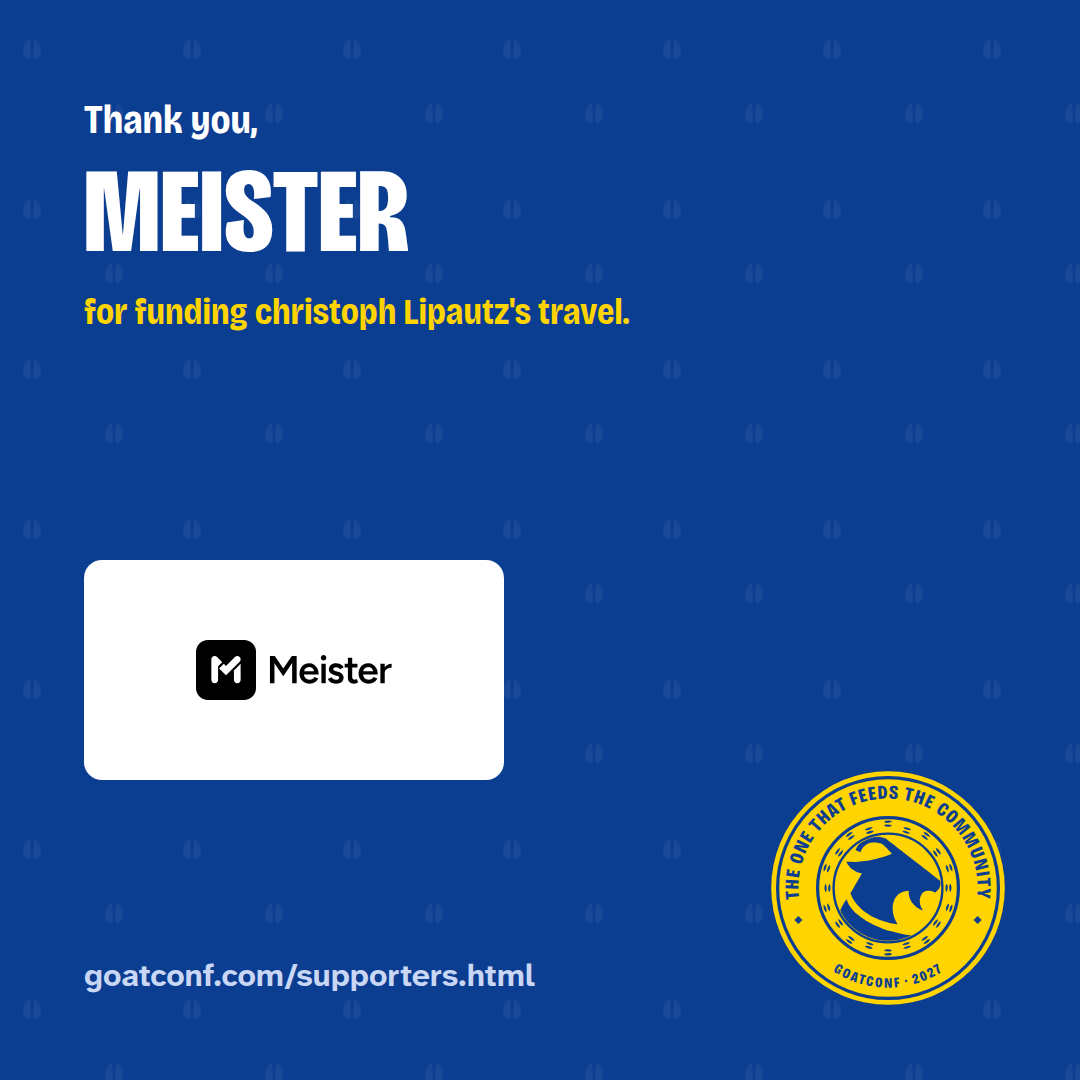
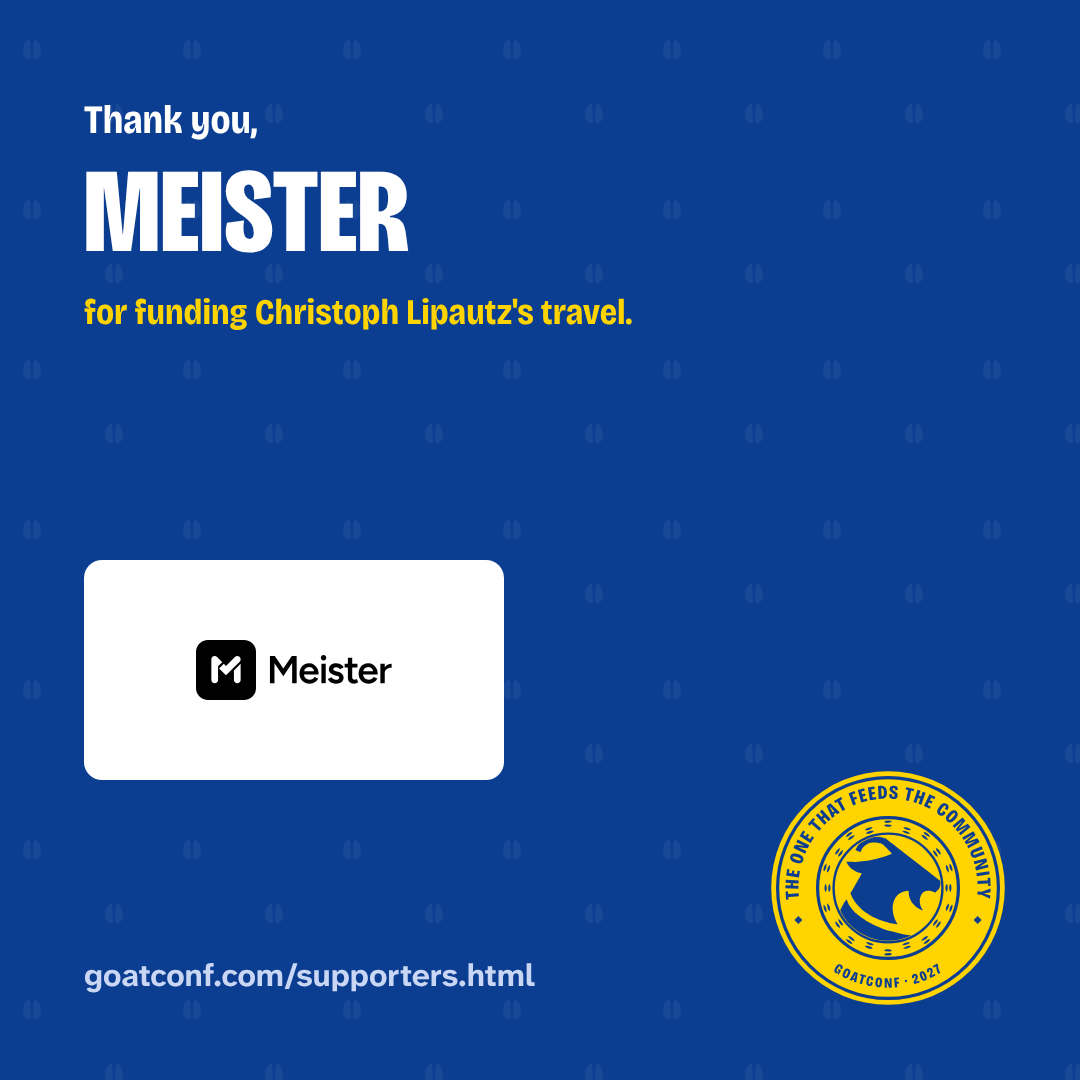
records: hosts who fund and organise an accepted event are supporters
On the organiser's decision, a host (a person, group or company) that
funds and organises an event the organiser accepted is listed as a
supporter, the same as online supporters, if it agrees. No money goes
through the organiser and being listed buys nothing. The supporters
decision gains the amendment; the charter, the supporters page, the
propose an event page, both READMEs and llms.txt say so; the
foundation's listing now falls under the rule.

Thank-you cards lowercase only a leading article, never a name, so
Meister's card reads "for funding Christoph Lipautz's travel" again.

Source: files/sources/conversations/2026-10-18--org--event-hosts-as-supporters.md

diff --git a/files/site/add.html b/files/site/add.html
@@ -70,6 +70,7 @@
 <li><strong>A hackathon:</strong> you, your group or your company organise all of it: the room, the theme, the judging, any prizes and their costs, paid directly to suppliers. It follows the same rules as everything else, and may not collect attendees' data or recruit beyond what people opt into.</li>
 <li><strong>Karaoke:</strong> book a bar or a room, bring the songs, and sing with the people who come.</li>
 </ul>
+<p>If you or your organisation fund and run it, you can also be listed as a <a href="supporters.html">supporter</a>.</p>
 <p>Want to support GoatConf with money or something in kind instead? See the <a href="supporters.html">supporters page</a>.</p>
 <h2>The rules</h2>
 <p>Not everything people propose becomes part of GoatConf. The organiser accepts what follows the <a href="code-of-conduct.html">code of conduct</a> and the <a href="charter.html">charter</a> and fits the program: its time, its place, who it is for and how it sits next to the talks. Only accepted events are part of GoatConf 2027, listed on the site and shared with the people who come. You run it and you pay for it, and its name says who runs it, for example "Rust night, part of GoatConf 2027". It takes place between about 25 May and 20 June 2027; if not, say why in the description. Anything not accepted may still happen, but not under GoatConf's name.</p>

diff --git a/files/site/charter.html b/files/site/charter.html
@@ -68,7 +68,7 @@
 </ul>
 <h2>Money</h2>
 <ul>
-<li><strong>Supporters are online only.</strong> A company can <a href="supporters.html">support GoatConf online</a>: one level, 500 euro, invoiced by the organiser's Austrian business, and the money pays the event's costs. Or it pays a supplier directly, or gives something in kind. Nothing a supporter gets is at the venue.</li>
+<li><strong>Supporters are online only.</strong> A company can <a href="supporters.html">support GoatConf online</a>: one level, 500 euro, invoiced by the organiser's Austrian business, and the money pays the event's costs. Or it pays a supplier directly, gives something in kind, or funds and organises an accepted event. Nothing a supporter gets is at the venue.</li>
 <li><strong>Supporters do not buy content.</strong> No talk, no stage time and no attendee list can be paid for.</li>
 <li><strong>Content and money are kept apart.</strong> Who speaks is never decided by who supports. Proposals from the open call are read without names first.</li>
 </ul>

diff --git a/files/site/supporters.html b/files/site/supporters.html
@@ -96,6 +96,7 @@
   <p class="copy copy--wide">It is online only: no booth, no banner and nothing at the venue. The money pays the event's costs. The organiser's Austrian business sends the invoice, under a short written agreement.</p>
   <p class="copy copy--wide">You can also pay a supplier directly for one named thing, such as the printing or a round of coffee, or give something in kind.</p>
   <p class="copy copy--wide">If you speak at GoatConf and your company covers your travel, your company is listed here as a supporter too, with its logo and link, the same as online supporters.</p>
+  <p class="copy copy--wide">If you or your organisation fund and organise an event the organiser accepts as part of GoatConf 2027, you are listed here as a supporter too, if you agree, with your logo and link, the same as online supporters.</p>
   <p class="copy copy--wide"><a class="go go--ink" href="contact.html">Write to the organiser</a> <a class="go go--ink" href="mailto:info@muhamed.at">info@muhamed.at</a></p>
 </section>
 </main>

diff --git a/files/tools/agents.py b/files/tools/agents.py
@@ -59,7 +59,7 @@ FACTS = [
     "Friday starts half an hour earlier, at 09:30, and ends at 16:30.",
     "Saturday has no talks: it is for events people add, such as the Pannonian salt lakes, the goat hunt, walks and meetups.",
     "Talks: an open call; anyone may propose a session, first-time speakers welcome. The organiser reads every proposal.",
-    "Supporters: companies can support GoatConf online for 500 EUR plus VAT where it applies (logo and link on the site, one social post, a mention in attendee emails; nothing at the venue), invoiced by the organiser's Austrian business, or pay a supplier directly. Speakers pay their own travel; a refund only if the budget allows, never promised.",
+    "Supporters: companies can support GoatConf online for 500 EUR plus VAT where it applies (logo and link on the site, one social post, a mention in attendee emails; nothing at the venue), invoiced by the organiser's Austrian business, or pay a supplier directly. A host who funds and organises an accepted event is listed as a supporter too, if they agree. Speakers pay their own travel; a refund only if the budget allows, never promised.",
     "Recording: GoatConf does not record the talks. People may bring a camera or a podcast, and a supporter may pay for a crew.",
 ]
 # The pages an agent most likely needs first, in this order; the rest follow.

diff --git a/files/tools/speakers.py b/files/tools/speakers.py
@@ -415,6 +415,7 @@ def supporters_page() -> str:
   <p class="copy copy--wide">It is online only: no booth, no banner and nothing at the venue. The money pays the event's costs. The organiser's Austrian business sends the invoice, under a short written agreement.</p>
   <p class="copy copy--wide">You can also pay a supplier directly for one named thing, such as the printing or a round of coffee, or give something in kind.</p>
   <p class="copy copy--wide">If you speak at GoatConf and your company covers your travel, your company is listed here as a supporter too, with its logo and link, the same as online supporters.</p>
+  <p class="copy copy--wide">If you or your organisation fund and organise an event the organiser accepts as part of GoatConf 2027, you are listed here as a supporter too, if you agree, with your logo and link, the same as online supporters.</p>
   <p class="copy copy--wide"><a class="go go--ink" href="contact.html">Write to the organiser</a> <a class="go go--ink" href="mailto:info@muhamed.at">info@muhamed.at</a></p>
 </section>"""
     return shell("supporters", "Supporters: GoatConf 2027, 3–5 June, Tuzla",

diff --git a/files/tools/shareables.py b/files/tools/shareables.py
@@ -148,7 +148,11 @@ def thanks(meta) -> str:
     funds = str(meta["funds"])
     if funds.split()[0].lower().endswith("ing"):
         return f"for {esc(funds[0].lower() + funds[1:])}."
-    return "for funding " + esc(funds[0].lower() + funds[1:]) + "."
+    # Lowercase only a leading article, never a name ("Christoph Lipautz's travel").
+    first = funds.split()[0]
+    if first in ("The", "A", "An"):
+        funds = first.lower() + funds[len(first):]
+    return f"for funding {esc(funds)}."
 
 
 def supporter_card(slug: str, meta, square: bool) -> str:

diff --git a/files/wiki/index.md b/files/wiki/index.md
@@ -2,7 +2,7 @@
 title: "goatconf brain: home"
 kind: meta
 status: draft
-updated: 2026-10-15
+updated: 2026-10-18
 sources: []
 ---
 
@@ -17,7 +17,8 @@ what is proposed is on the [pitches hub](org/pitches/index.md).
 
 ## What changed
 
-<!-- home-section: filled; maintained-by: /shape; updated: 2026-10-17 -->
+<!-- home-section: filled; maintained-by: /shape; updated: 2026-10-18 -->
+- **2026-10-18**: **The first accepted event, and its host on the supporters wall.** The organiser accepted the BH Professionals Meetup, run and paid for by the Bosnia & Herzegovina Futures Foundation on Saturday 5 June 2027, 18:00 to 21:00, venue to be announced; it shows on the extensions page, the program's Saturday and the home page. A host that funds and organises an accepted event, whether a person, a group or a company, is now listed as a supporter if it agrees, and the foundation is the first, for "Funding and organising the BH Professionals Meetup on Saturday 5 June"; the charter, the supporters page and the propose an event page say so. Thank-you cards no longer lowercase a name, so Meister's reads "Christoph Lipautz's travel" ([Online supporters](org/adrs/online-supporters-through-the-business.md); sources: sources/events/2026-10-18--bh-futures-foundation--bh-professionals-meetup.md, sources/conversations/2026-10-18--org--bh-professionals-meetup-accepted.md, sources/conversations/2026-10-18--org--event-hosts-as-supporters.md).
 - **2026-10-17**: **The three days, fixed on phones and open to anything.** The day stickers stack in one column on phones and sit nearly level, and their wording no longer names kinds of event: the evenings are "open for whatever people add" (source: sources/conversations/2026-10-17--org--three-days-mobile-and-open-wording.md).
 - **2026-10-17**: **The three days invite events on any day.** On the home page, Thursday and Friday now say their evenings are open for events people add and what the hours off are, every day links to the program, accepted events will show under their day, and a new "Yours?" slot invites an event on any day from 2 to 6 June ([Website](org/adrs/goatconf-ba-and-google-forms.md); source: sources/conversations/2026-10-17--org--three-days-section.md).
 - **2026-10-17**: **A shorter cover.** The home page cover no longer carries the line "Two days of one-hour sessions in every room, with a full hour off after each. Then a day at the lakes. The people who come add the rest."; the days section just below says the same (source: sources/conversations/2026-10-17--org--cover-line-removed.md).

diff --git a/files/wiki/org/adrs/online-supporters-through-the-business.md b/files/wiki/org/adrs/online-supporters-through-the-business.md
@@ -2,13 +2,14 @@
 title: "Online supporters pay the organiser's Austrian business; the budget becomes private"
 kind: decision
 status: accepted
-updated: 2026-10-14
+updated: 2026-10-18
 confidence: medium
 supersedes: org/adrs/budget-and-public-ledger.md
 depends_on:
   - org/adrs/speakers-and-travel-supporters.md
   - org/adrs/supporters-and-hiring.md
 sources:
+  - sources/conversations/2026-10-18--org--event-hosts-as-supporters.md
   - sources/conversations/2026-10-14--org--speakers-dinner.md
   - sources/conversations/2026-10-14--org--decisions-one-by-one.md
   - sources/conversations/2026-10-13--org--speaker-travel-and-luma-question.md
@@ -105,6 +106,7 @@ A single level treats every supporter alike.
 - **2026-10-13, a speaker's company that covers their travel.** A company that pays its own speaker's travel is listed on the site as a supporter, the same as online supporters, with its logo and link. No money goes through the organiser for it, so there is nothing to invoice. This is the speaker's own employer paying for its own person; a supporter still never pays for another company's or a named outside speaker's travel (source: sources/conversations/2026-10-13--org--speaker-travel-and-luma-question.md).
 - **2026-10-14, the surplus, confirmed.** Leftover money pays more of this year's event costs, speaker travel refunds included where the organiser decides, and anything still left carries to the next GoatConf. The organiser confirmed this reading of their earlier answer (source: sources/conversations/2026-10-14--org--decisions-one-by-one.md).
 - **2026-10-14, the speakers dinner is an event cost.** The money may pay for the speakers dinner for accepted speakers, if the budget allows (source: sources/conversations/2026-10-14--org--speakers-dinner.md).
+- **2026-10-18, a host that funds and organises an accepted event.** A host, whether a person, a group or a company, that funds and organises an event the organiser accepted as part of GoatConf 2027 is listed on the site as a supporter, the same as online supporters, with its logo and link, if it agrees. No money goes through the organiser, so there is nothing to invoice. Its line names the event. Being listed buys nothing: no talk, no stage time, no say over the program and nothing at GoatConf's venue. The first is the Bosnia & Herzegovina Futures Foundation, for the BH Professionals Meetup on Saturday 5 June 2027 (source: sources/conversations/2026-10-18--org--event-hosts-as-supporters.md).
 
 ## Related
 

diff --git a/files/sources/conversations/2026-10-18--org--event-hosts-as-supporters.md b/files/sources/conversations/2026-10-18--org--event-hosts-as-supporters.md
@@ -1,0 +1,38 @@
+---
+title: "Hosts who fund and organise an accepted event are listed as supporters, if they agree"
+date: 2026-10-18
+kind: conversation
+---
+
+After the BH Futures Foundation was listed as a supporter for funding
+and organising its meetup
+(`sources/conversations/2026-10-18--org--bhff-funding-and-organising.md`),
+the agent said it had treated that as one listing, and that making it a
+general rule would change the supporters page and the charter. It also
+asked whether to fix Meister's thank-you card, which reads "for funding
+christoph Lipautz's travel" because the card lowercases the first letter
+of every line. The organiser wrote, verbatim:
+
+> Yes, we should list these as supporters also
+
+The agent drafted an amendment to the supporters decision and the public
+wording, and asked four questions. The organiser chose:
+
+- **Who:** "Any host, people too". A person, group or company that funds
+  and organises an accepted event may be listed, not only organisations.
+- **Opt-in:** "If they agree". A host is listed once it agrees and gives
+  or approves a logo, as the foundation did; nothing is automatic.
+- **Meister's card:** "Yes, fix it too". The card stops lowercasing the
+  first letter of a line, and Meister's two cards are rendered again.
+- **The wording:** "Approve as drafted", with "an organisation" read as
+  "a host" after the first answer.
+
+The rule, as approved: a host that funds and organises an event the
+organiser accepted as part of GoatConf 2027 is listed on the site as a
+supporter, the same as online supporters, with its logo and link, if it
+agrees. No money goes through the organiser, so there is nothing to
+invoice. Its line names the event. Being listed buys nothing: no talk,
+no stage time, no say over the program and nothing at GoatConf's venue.
+The supporters page, the charter, the propose an event page, the
+supporters README, the README and the summary in `llms.txt` say so. The
+foundation's listing now falls under this rule.

diff --git a/files/supporters/README.md b/files/supporters/README.md
@@ -3,7 +3,10 @@
 One Markdown file per company that supports GoatConf. Most are online
 supporters: one level, 500 EUR plus VAT where it applies, invoiced by the
 organiser's Austrian business, with nothing at the venue. A company may
-instead pay a supplier directly for one named thing, or give in kind. No
+instead pay a supplier directly for one named thing, or give in kind. A
+host (a person, group or company) that funds and organises an event the
+organiser accepted is listed too, if it agrees, with a line naming the
+event. No
 supporter pays for a named speaker's travel. Name the file after the
 company in lowercase words joined by hyphens. Copy `_template.md` to start
 one.

diff --git a/files/README.md b/files/README.md
@@ -6,7 +6,8 @@ behind them.
 
 Two rules hold for supporters: **they are online only** (one level, 500
 EUR, invoiced by the organiser's Austrian business, nothing at the venue;
-or they pay a supplier directly), and **they never buy content**. The
+or they pay a supplier directly, or they fund and organise an accepted
+event), and **they never buy content**. The
 budget is private.
 
 This repository is meant to be public. Anyone can add a side event,
